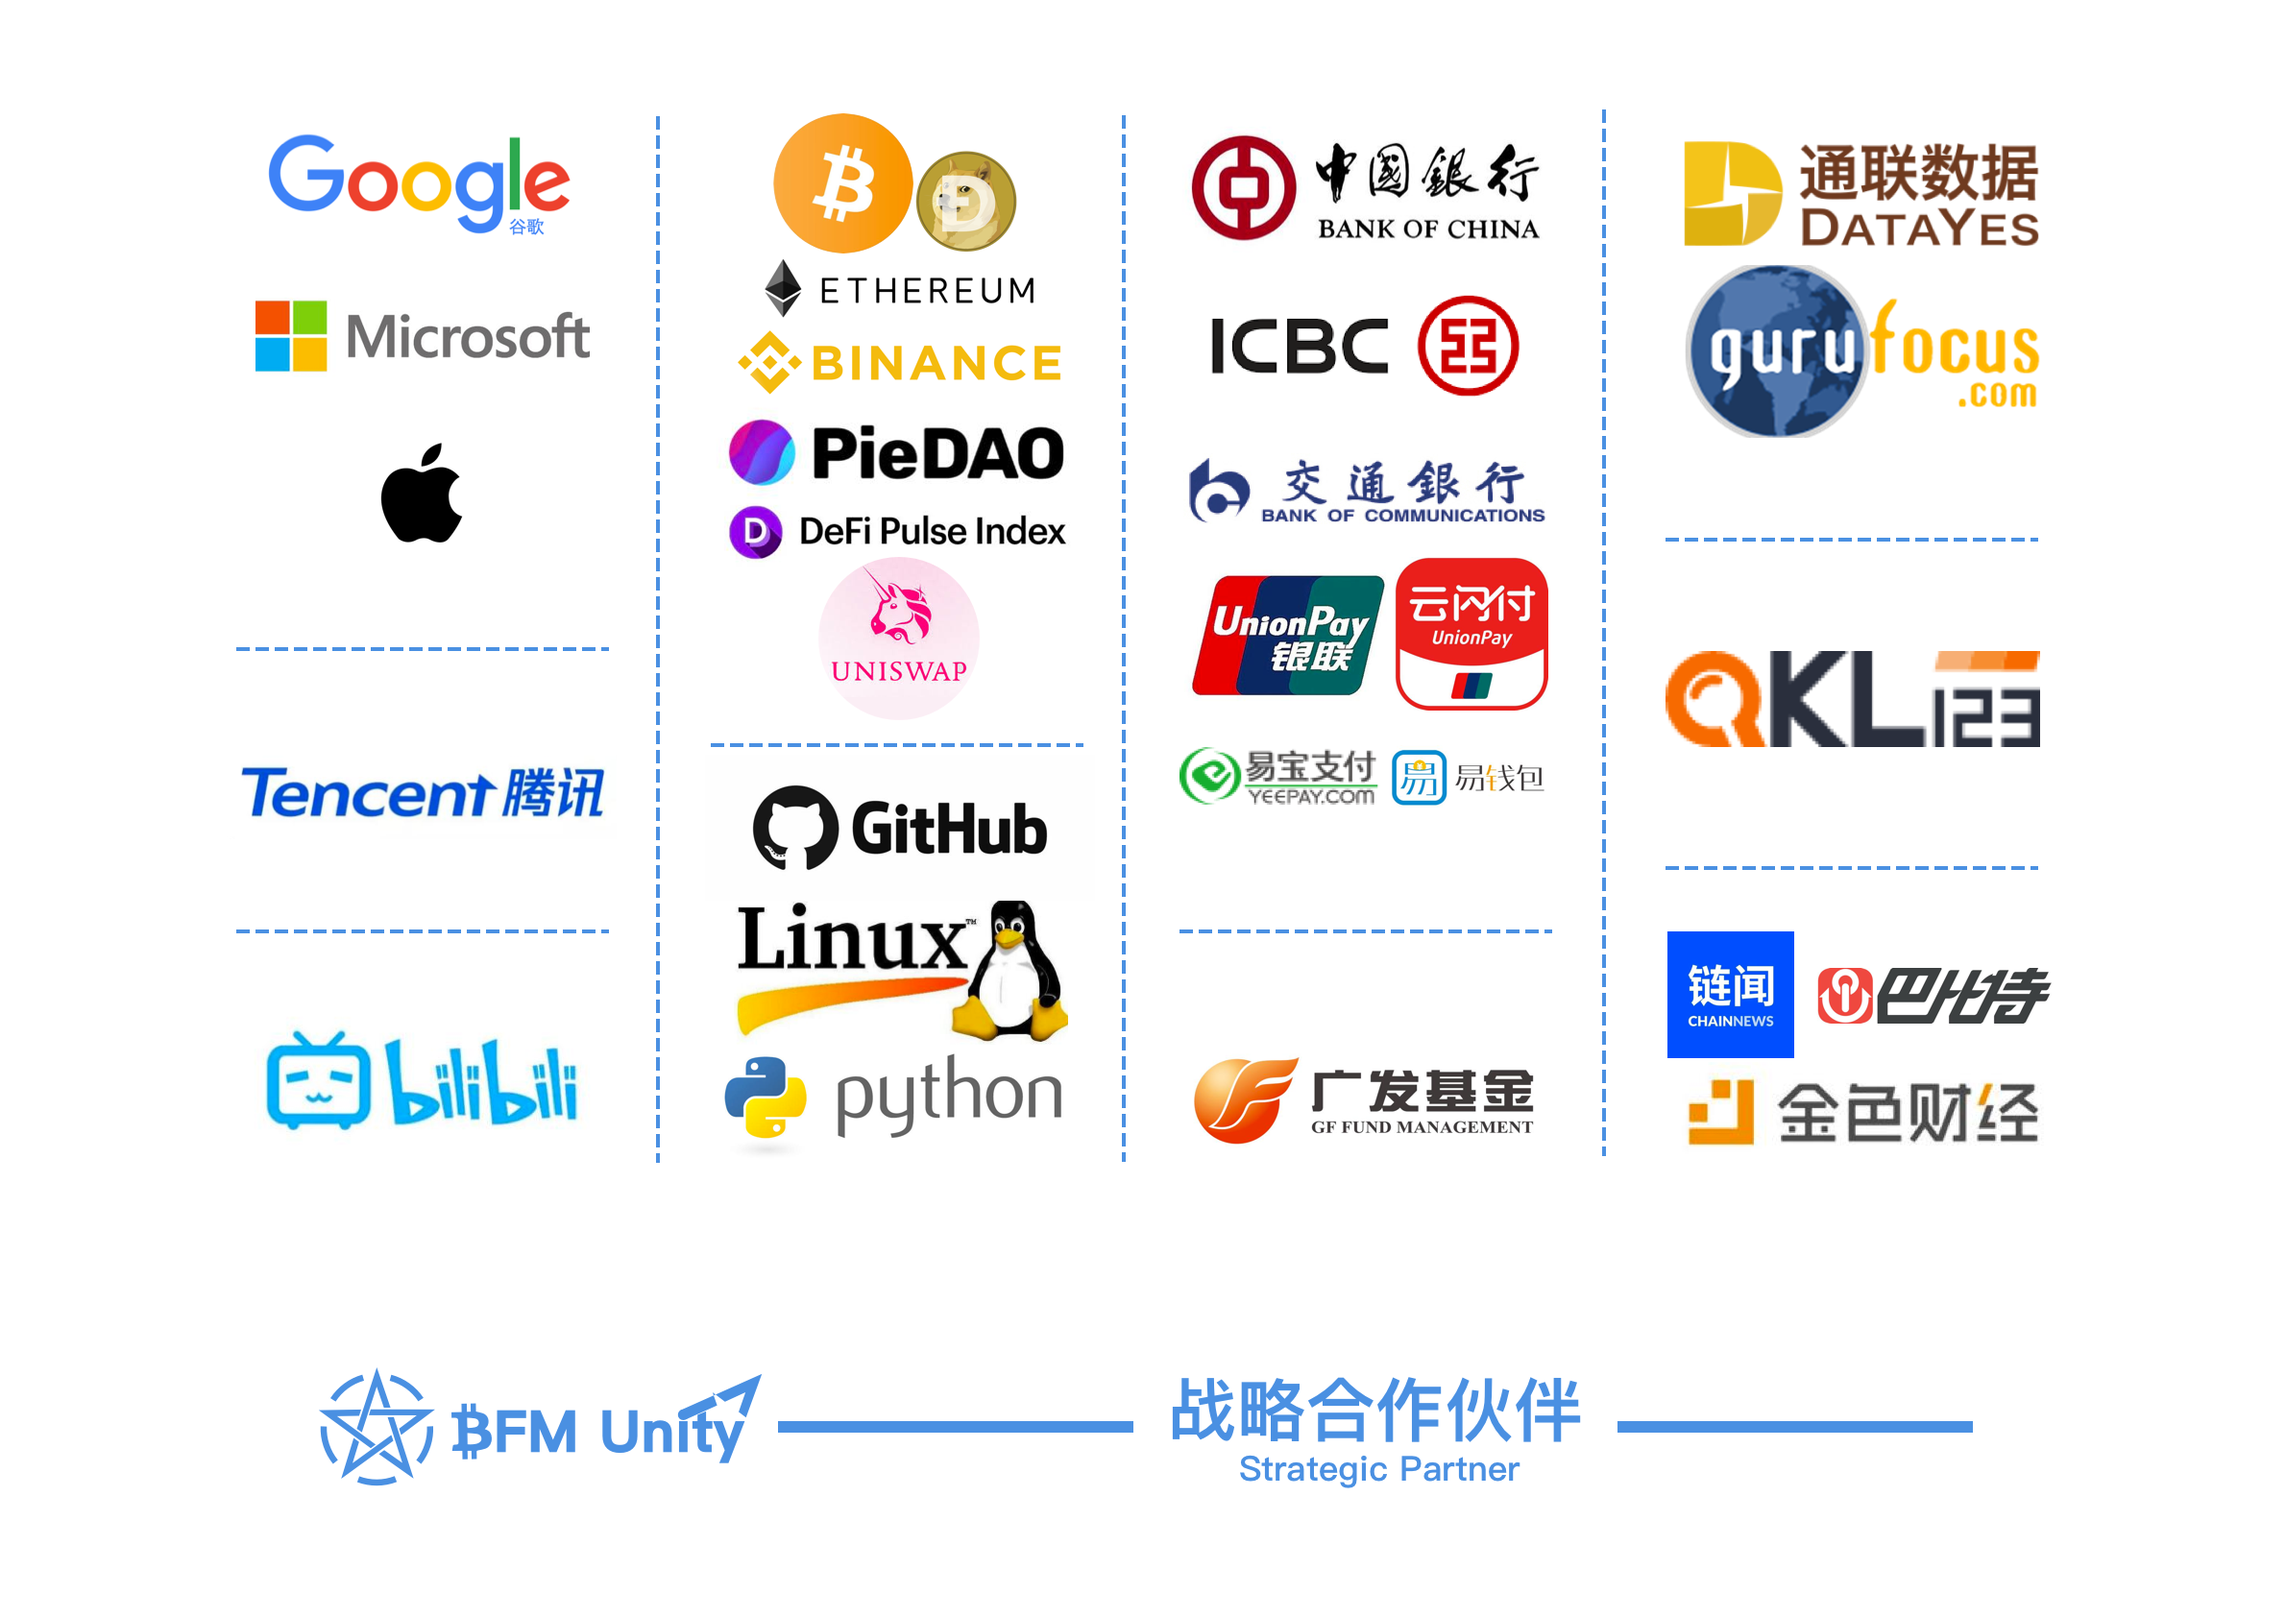
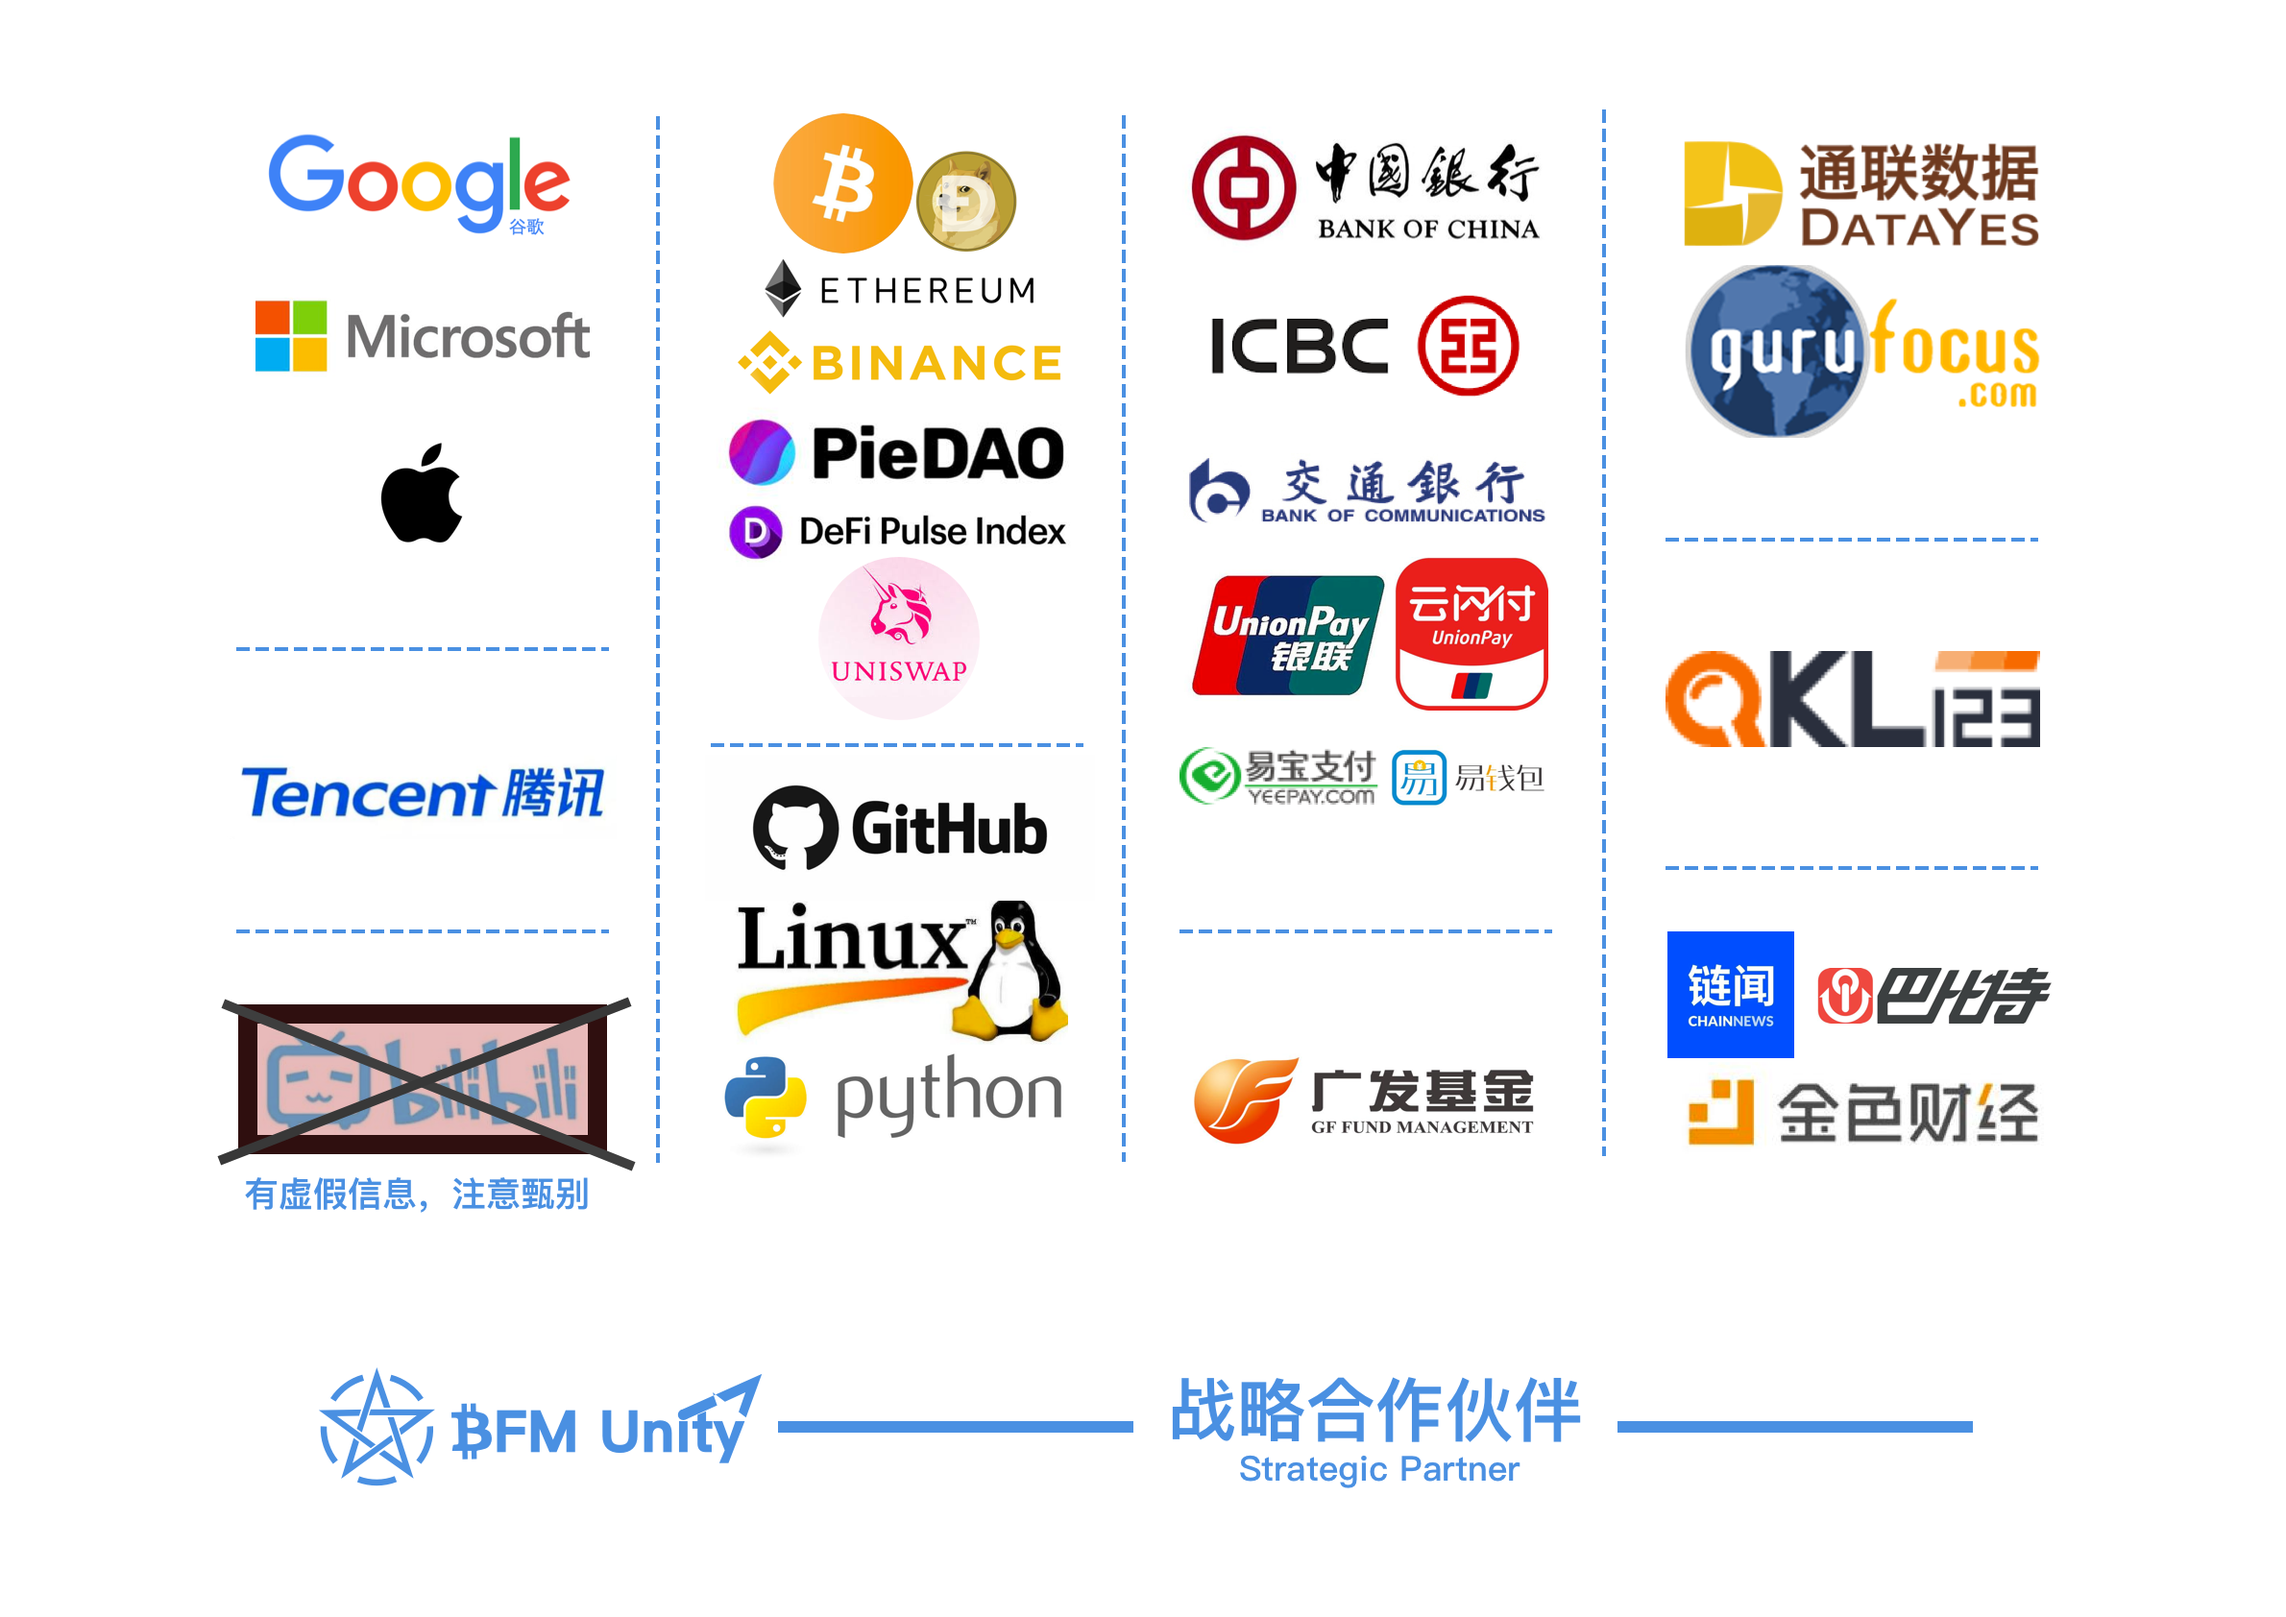
GitBook: [master] one page and one asset modified

Changed region(s): [[0.0933, 0.6176, 0.2798, 0.772]]

diff --git a/management-cockpit-operation/README.md b/management-cockpit-operation/README.md
@@ -70,7 +70,7 @@ description: Management Cockpit (Operation)
   [**估值**](https://terminal.tokenterminal.com/dashboard/Dapps)**（**[**参考链接**](https://www.chainnews.com/articles/649261412781.htm)**）**
 {% endhint %}
 
-## Ðoge 云挖矿
+## Ðoge 云挖矿\(⚠有风险，请勿靠近\)
 
 {% page-ref page="wa-gou-gou-bi.md" %}
 
